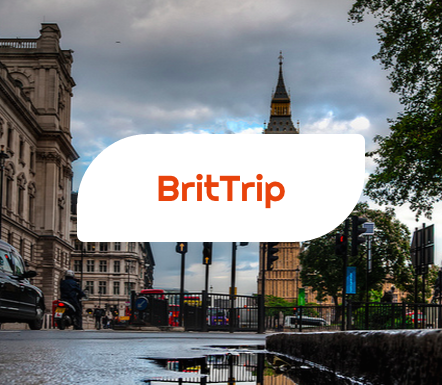
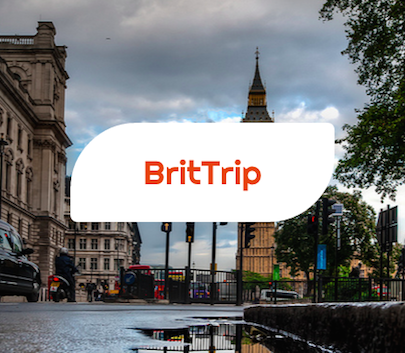
scaling images, more enhancement in styling and content

diff --git a/src/styles/main.scss b/src/styles/main.scss
@@ -32,6 +32,11 @@ h1, h2, h3, h4, h5 {
 	font-family: 'Josefin Sans', sans-serif;
 }
 
+.noshow {
+	visibility: hidden;
+	max-height: 0;
+}
+
 a span, button span {
 	display: inline-block;
 	font-family: 'icomoon';
@@ -63,6 +68,17 @@ header {
 		background: #fff;
 		font-family: 'Josefin Sans', sans-serif;
 		box-shadow: 2px 1px 2em darken($secondary, 25%);
+
+		p {
+			margin: 0 0 0.2em 1em;
+			max-height: 3em;
+			text-transform: uppercase;
+			font-size: 1.4em;
+			font-weight: 600;
+			letter-spacing: 0.06em;
+			color: $tertiary;
+			transition: max-height 0.2s ease;
+		}
 
 		a {
 			text-transform: uppercase;
@@ -106,51 +122,32 @@ header {
 
 	.social a {
 		display: block;
-		font-size: 3rem;
+		font-size: 2rem;
 		width: 1em;
 		height: 1em;
 		line-height: 1.2em;
 		overflow: hidden;
 		margin: 0.5em auto;
-		border-radius: 0.03em;
+		border-radius: 0.06em;
+
+		&:first-child {
+			color: $secondary;
+			background: #fff;
+
+			span {
+				font-size: 1.2em;
+				margin: -0.1em 0 0 -0.1em;
+			}
+		}
 	}
 
 	.social a:hover, .social a:focus {
 		background: #fff;
 		color: $secondary;
-	}
 
-	.social a:first-child {
-		width: 1em;
-		height: 0.7em;
-
-		span {
-			display: block;
-			width: 90%;
-			height: 90%;
-			border: 0.06em solid #fff;
-			overflow: hidden;
-			margin: 0.035em auto 0 auto;
-
-			&:after {
-				display: block;
-				content: '';
-				position: relative;
-				left: 0.03em;
-				top: -0.45em;
-				width: 0.6em;
-				height: 0.6em;
-				border: 0.06em solid #fff;
-				transform: rotate(45deg);
-			}
-		}
-
-		&:hover span, &:focus span {
-			border: 0.06em solid $secondary;
-			
-			&:after {
-				border: 0.06em solid $secondary;
-			}
+		&:first-child {
+			color: #fff;
+			background: $secondary;
 		}
 	}
 		
@@ -181,14 +178,14 @@ header {
 		text-align: right;
 		a {
 			font-size: 1.2rem;
-			color: lighten($text, 30%);
+			color: $tertiary;
 			text-decoration: none;
 			line-height: 1.2em;
 			margin: 1.2em 0.4em 0 0;
 			padding: 0.4em 0.3em 0 0.3em;
 
 			&:hover, &:focus, &:active {
-				background: lighten($text, 50%);
+				background: lighten($tertiary, 23%);
 				color: #fff;
 			}
 		}

diff --git a/src/scripts/main.js b/src/scripts/main.js
@@ -1,7 +1,7 @@
 document.addEventListener('DOMContentLoaded', function(){
 
-	var debounce, gridSetter, masonryInit, msnry, sticky, stickyInit,
-		getAction, save, print, share,
+	var debounce, gridSetter, masonryInit, msnry,
+		getAction, showName,
 		container = document.querySelector('.portfolio .col5');
 
 	debounce = function(func, wait, immediate) {
@@ -43,8 +43,14 @@ document.addEventListener('DOMContentLoaded', function(){
 		return type;
 	};
 
-	window.save = function() {
-		console.log('save');
+	showName = function () {
+		var headerName = document.querySelector('nav p');
+
+		if (document.body.scrollTop > 150) {
+			headerName.className = '';
+		} else if (headerName.className === '') {
+			headerName.className = 'noshow';
+		}
 	};
 
 	window.share = function() {
@@ -56,6 +62,8 @@ document.addEventListener('DOMContentLoaded', function(){
 		// this section happens on the portfolio
 		window.addEventListener('resize', debounce(gridSetter, 250));
 		imagesLoaded(container, function() { gridSetter(); });
+
+
 	} else {
 		// this section happens on skills page
 		var buttons = document.getElementsByTagName('button'),
@@ -65,12 +73,12 @@ document.addEventListener('DOMContentLoaded', function(){
 		for (i = 0; i < len; i++ ) {
 			buttons[i].addEventListener('click', function(e) {
 				var type = getAction(e.target).toLowerCase();
-
+				
 				window[type]();
-
 			});
 		}
-
 	}
+
+	document.addEventListener('scroll', debounce(showName, 100));
 
 });

diff --git a/src/styles/_icomoon.scss b/src/styles/_icomoon.scss
@@ -1,10 +1,10 @@
 @font-face {
 	font-family: 'icomoon';
-	src:url('../fonts/icomoon.eot?t480dy');
-	src:url('../fonts/icomoon.eot?#iefixt480dy') format('embedded-opentype'),
-		url('../fonts/icomoon.woff?t480dy') format('woff'),
-		url('../fonts/icomoon.ttf?t480dy') format('truetype'),
-		url('../fonts/icomoon.svg?t480dy#icomoon') format('svg');
+	src:url('../fonts/icomoon.eot?6ciu82');
+	src:url('../fonts/icomoon.eot?#iefix6ciu82') format('embedded-opentype'),
+		url('../fonts/icomoon.woff?6ciu82') format('woff'),
+		url('../fonts/icomoon.ttf?6ciu82') format('truetype'),
+		url('../fonts/icomoon.svg?6ciu82#icomoon') format('svg');
 	font-weight: normal;
 	font-style: normal;
 }
@@ -24,10 +24,6 @@
 }
 
 .icon-download:before {
-	content: "\e600";
-}
-
-.icon-export:before {
 	content: "\e601";
 }
 
@@ -47,12 +43,16 @@
 	content: "\e607";
 }
 
-.icon-share-alternitive:before {
-	content: "\e606";
+.icon-share:before {
+	content: "\e600";
 }
 
 .icon-github:before {
 	content: "\e604";
+}
+
+.icon-mail:before {
+	content: "\ea83";
 }
 
 .icon-google-plus:before {

diff --git a/src/styles/_colors.scss b/src/styles/_colors.scss
@@ -1,5 +1,5 @@
 $text: #07020d;
 $primary: #f20049;
 $secondary: #2fdebe;
-$tertiary: #5db7de;
+$tertiary: lighten($text, 30%);
 $background: #f1e9db;
